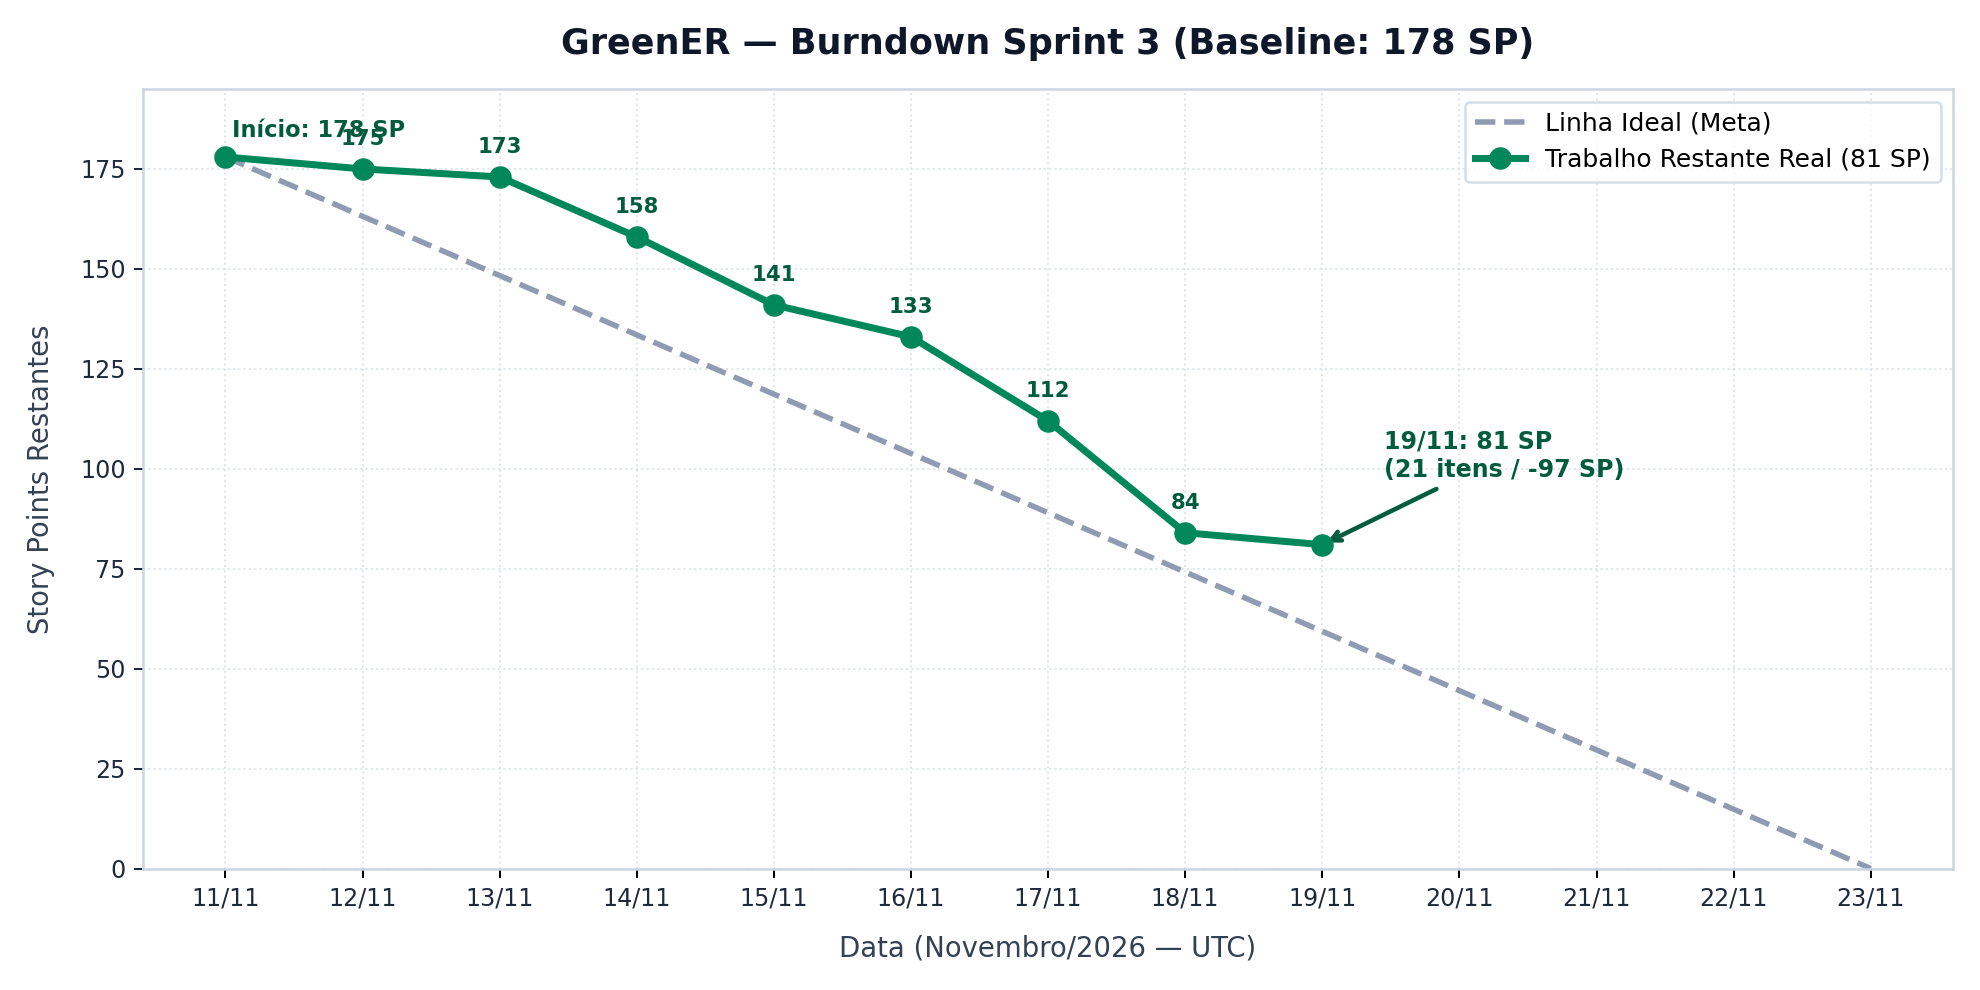
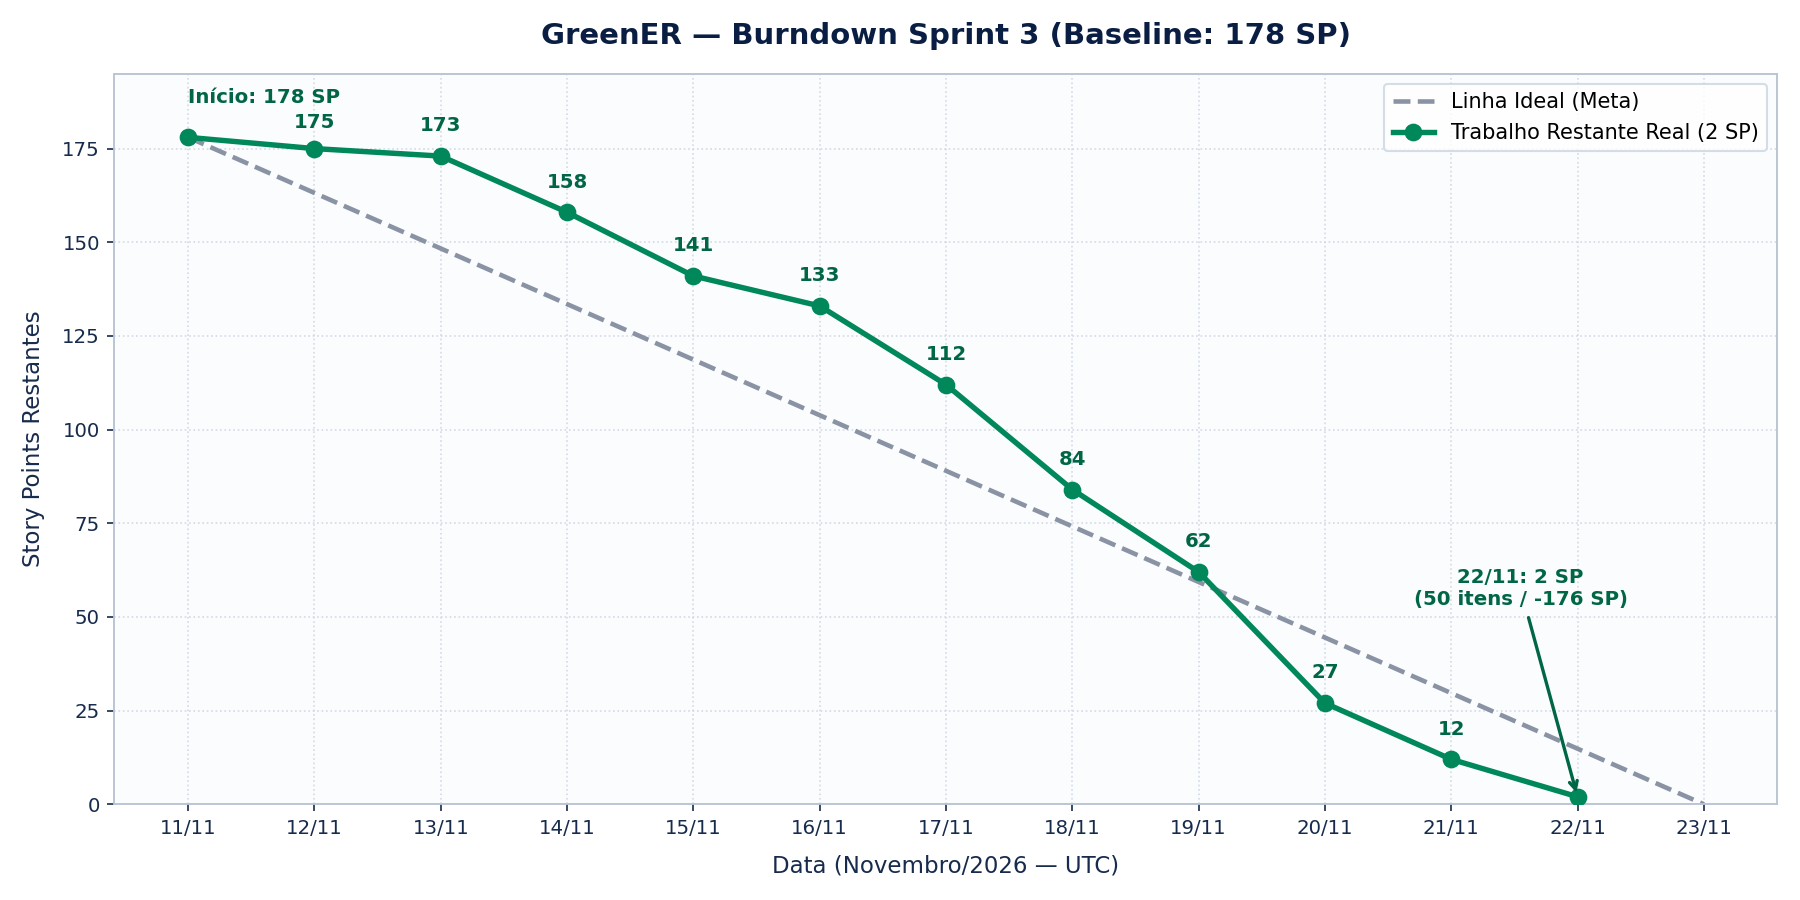
docs(burndown): atualiza burndown da Sprint 3 até 22/11 (2 SP restantes, 50/51 itens) (#108)

diff --git a/docs/burndown-sprint-3.md b/docs/burndown-sprint-3.md
@@ -35,4 +35,13 @@ A baixa de pontos no burndown segue estritamente o critério de **aceite e fecha
 - **16/11/2026:** 133 SP restantes (+2 itens concluídos: [#93](https://github.com/abpundefined/3DSM-ABP-UNDEFINED/issues/93) — 5 SP via PR [#174](https://github.com/abpundefined/3DSM-ABP-UNDEFINED/pull/174); [#98](https://github.com/abpundefined/3DSM-ABP-UNDEFINED/issues/98) — 3 SP via PR [#179](https://github.com/abpundefined/3DSM-ABP-UNDEFINED/pull/179)).
 - **17/11/2026:** 112 SP restantes (+6 itens concluídos: [#110](https://github.com/abpundefined/3DSM-ABP-UNDEFINED/issues/110) — 2 SP via PR [#185](https://github.com/abpundefined/3DSM-ABP-UNDEFINED/pull/185); [#122](https://github.com/abpundefined/3DSM-ABP-UNDEFINED/issues/122) — 2 SP via PR [#187](https://github.com/abpundefined/3DSM-ABP-UNDEFINED/pull/187); [#135](https://github.com/abpundefined/3DSM-ABP-UNDEFINED/issues/135) — 3 SP via PR [#188](https://github.com/abpundefined/3DSM-ABP-UNDEFINED/pull/188); [#115](https://github.com/abpundefined/3DSM-ABP-UNDEFINED/issues/115) — 3 SP via PR [#182](https://github.com/abpundefined/3DSM-ABP-UNDEFINED/pull/182); [#104](https://github.com/abpundefined/3DSM-ABP-UNDEFINED/issues/104) — 5 SP via PR [#183](https://github.com/abpundefined/3DSM-ABP-UNDEFINED/pull/183); [#91](https://github.com/abpundefined/3DSM-ABP-UNDEFINED/issues/91) — 6 SP via PR [#186](https://github.com/abpundefined/3DSM-ABP-UNDEFINED/pull/186)).
 - **18/11/2026:** 84 SP restantes (+4 itens concluídos: [#106](https://github.com/abpundefined/3DSM-ABP-UNDEFINED/issues/106) — 5 SP via PR [#190](https://github.com/abpundefined/3DSM-ABP-UNDEFINED/pull/190); [#99](https://github.com/abpundefined/3DSM-ABP-UNDEFINED/issues/99) — 7 SP via PRs [#173](https://github.com/abpundefined/3DSM-ABP-UNDEFINED/pull/173), [#177](https://github.com/abpundefined/3DSM-ABP-UNDEFINED/pull/177) e [#194](https://github.com/abpundefined/3DSM-ABP-UNDEFINED/pull/194); [#81](https://github.com/abpundefined/3DSM-ABP-UNDEFINED/issues/81) — 8 SP via PRs [#166](https://github.com/abpundefined/3DSM-ABP-UNDEFINED/pull/166), [#167](https://github.com/abpundefined/3DSM-ABP-UNDEFINED/pull/167), [#175](https://github.com/abpundefined/3DSM-ABP-UNDEFINED/pull/175) e [#180](https://github.com/abpundefined/3DSM-ABP-UNDEFINED/pull/180); [#101](https://github.com/abpundefined/3DSM-ABP-UNDEFINED/issues/101) — 8 SP via PRs [#184](https://github.com/abpundefined/3DSM-ABP-UNDEFINED/pull/184), [#193](https://github.com/abpundefined/3DSM-ABP-UNDEFINED/pull/193) e [#198](https://github.com/abpundefined/3DSM-ABP-UNDEFINED/pull/198)).
-- **19/11/2026:** 81 SP restantes (+1 item concluído: [#103](https://github.com/abpundefined/3DSM-ABP-UNDEFINED/issues/103) — 3 SP via PR [#192](https://github.com/abpundefined/3DSM-ABP-UNDEFINED/pull/192)). Acumulado: 21 itens concluídos (97 SP entregues).
+- **19/11/2026:** 62 SP restantes (+7 itens concluídos: [#103](https://github.com/abpundefined/3DSM-ABP-UNDEFINED/issues/103) — 3 SP via PR [#192](https://github.com/abpundefined/3DSM-ABP-UNDEFINED/pull/192); [#123](https://github.com/abpundefined/3DSM-ABP-UNDEFINED/issues/123) — 3 SP via PR [#199](https://github.com/abpundefined/3DSM-ABP-UNDEFINED/pull/199); [#94](https://github.com/abpundefined/3DSM-ABP-UNDEFINED/issues/94) — 6 SP via PR [#200](https://github.com/abpundefined/3DSM-ABP-UNDEFINED/pull/200); [#105](https://github.com/abpundefined/3DSM-ABP-UNDEFINED/issues/105) — 5 SP via PR [#189](https://github.com/abpundefined/3DSM-ABP-UNDEFINED/pull/189); [#129](https://github.com/abpundefined/3DSM-ABP-UNDEFINED/issues/129) — 2 SP via PR [#204](https://github.com/abpundefined/3DSM-ABP-UNDEFINED/pull/204); [#126](https://github.com/abpundefined/3DSM-ABP-UNDEFINED/issues/126) — 2 SP via PR [#203](https://github.com/abpundefined/3DSM-ABP-UNDEFINED/pull/203); [#139](https://github.com/abpundefined/3DSM-ABP-UNDEFINED/issues/139) — 1 SP via PR [#206](https://github.com/abpundefined/3DSM-ABP-UNDEFINED/pull/206)). *(A leitura parcial registrada no fechamento de 18/11 em Brasília contabilizava apenas #103 no início do dia UTC.)*
+- **20/11/2026:** 27 SP restantes (+13 itens concluídos: [#111](https://github.com/abpundefined/3DSM-ABP-UNDEFINED/issues/111) — 4 SP via PR [#205](https://github.com/abpundefined/3DSM-ABP-UNDEFINED/pull/205); [#80](https://github.com/abpundefined/3DSM-ABP-UNDEFINED/issues/80) — 3 SP via PR [#207](https://github.com/abpundefined/3DSM-ABP-UNDEFINED/pull/207); [#116](https://github.com/abpundefined/3DSM-ABP-UNDEFINED/issues/116) — 1 SP via PR [#197](https://github.com/abpundefined/3DSM-ABP-UNDEFINED/pull/197); [#133](https://github.com/abpundefined/3DSM-ABP-UNDEFINED/issues/133) — 3 SP via PR [#202](https://github.com/abpundefined/3DSM-ABP-UNDEFINED/pull/202); [#114](https://github.com/abpundefined/3DSM-ABP-UNDEFINED/issues/114) — 4 SP via PR [#208](https://github.com/abpundefined/3DSM-ABP-UNDEFINED/pull/208); [#140](https://github.com/abpundefined/3DSM-ABP-UNDEFINED/issues/140) — 2 SP via PR [#211](https://github.com/abpundefined/3DSM-ABP-UNDEFINED/pull/211); [#130](https://github.com/abpundefined/3DSM-ABP-UNDEFINED/issues/130) — 3 SP via PR [#212](https://github.com/abpundefined/3DSM-ABP-UNDEFINED/pull/212); [#21](https://github.com/abpundefined/3DSM-ABP-UNDEFINED/issues/21) — 5 SP via PRs [#196](https://github.com/abpundefined/3DSM-ABP-UNDEFINED/pull/196) e [#210](https://github.com/abpundefined/3DSM-ABP-UNDEFINED/pull/210); [#131](https://github.com/abpundefined/3DSM-ABP-UNDEFINED/issues/131) — 1 SP via PR [#215](https://github.com/abpundefined/3DSM-ABP-UNDEFINED/pull/215); [#124](https://github.com/abpundefined/3DSM-ABP-UNDEFINED/issues/124) — 3 SP via PR [#213](https://github.com/abpundefined/3DSM-ABP-UNDEFINED/pull/213); [#141](https://github.com/abpundefined/3DSM-ABP-UNDEFINED/issues/141) — 2 SP via PR [#217](https://github.com/abpundefined/3DSM-ABP-UNDEFINED/pull/217); [#146](https://github.com/abpundefined/3DSM-ABP-UNDEFINED/issues/146) — 1 SP via PR [#216](https://github.com/abpundefined/3DSM-ABP-UNDEFINED/pull/216); [#127](https://github.com/abpundefined/3DSM-ABP-UNDEFINED/issues/127) — 3 SP via PR [#218](https://github.com/abpundefined/3DSM-ABP-UNDEFINED/pull/218)).
+- **21/11/2026:** 12 SP restantes (+6 itens concluídos: [#136](https://github.com/abpundefined/3DSM-ABP-UNDEFINED/issues/136) — 2 SP via PR [#219](https://github.com/abpundefined/3DSM-ABP-UNDEFINED/pull/219); [#143](https://github.com/abpundefined/3DSM-ABP-UNDEFINED/issues/143) — 1 SP via PR [#220](https://github.com/abpundefined/3DSM-ABP-UNDEFINED/pull/220); [#125](https://github.com/abpundefined/3DSM-ABP-UNDEFINED/issues/125) — 3 SP via PR [#222](https://github.com/abpundefined/3DSM-ABP-UNDEFINED/pull/222); [#145](https://github.com/abpundefined/3DSM-ABP-UNDEFINED/issues/145) — 2 SP via PR [#229](https://github.com/abpundefined/3DSM-ABP-UNDEFINED/pull/229); [#119](https://github.com/abpundefined/3DSM-ABP-UNDEFINED/issues/119) — 5 SP via PR [#230](https://github.com/abpundefined/3DSM-ABP-UNDEFINED/pull/230); [#142](https://github.com/abpundefined/3DSM-ABP-UNDEFINED/issues/142) — 2 SP via PR [#235](https://github.com/abpundefined/3DSM-ABP-UNDEFINED/pull/235)).
+- **22/11/2026:** 2 SP restantes (+4 itens concluídos: [#117](https://github.com/abpundefined/3DSM-ABP-UNDEFINED/issues/117) — 2 SP via PR [#201](https://github.com/abpundefined/3DSM-ABP-UNDEFINED/pull/201); [#120](https://github.com/abpundefined/3DSM-ABP-UNDEFINED/issues/120) — 3 SP via PR [#221](https://github.com/abpundefined/3DSM-ABP-UNDEFINED/pull/221); [#118](https://github.com/abpundefined/3DSM-ABP-UNDEFINED/issues/118) — 2 SP via PR [#223](https://github.com/abpundefined/3DSM-ABP-UNDEFINED/pull/223); [#109](https://github.com/abpundefined/3DSM-ABP-UNDEFINED/issues/109) — 3 SP). **Acumulado:** 50 de 51 itens concluídos (176 de 178 SP entregues — 98,88%), restando apenas [#108](https://github.com/abpundefined/3DSM-ABP-UNDEFINED/issues/108) (2 SP), que será encerrada com o merge deste PR.
+
+### Entregas do Backlog de Reserva (`could` — fora da baseline de 178 SP)
+Além dos itens comprometidos, **7 dos 10 itens de reserva (+20 SP)** foram implementados e fechados após a conclusão da frente principal:
+- **20/11/2026:** [#149](https://github.com/abpundefined/3DSM-ABP-UNDEFINED/issues/149) (2 SP, PR [#209](https://github.com/abpundefined/3DSM-ABP-UNDEFINED/pull/209)).
+- **21/11/2026:** [#155](https://github.com/abpundefined/3DSM-ABP-UNDEFINED/issues/155) (5 SP, PR [#224](https://github.com/abpundefined/3DSM-ABP-UNDEFINED/pull/224)), [#153](https://github.com/abpundefined/3DSM-ABP-UNDEFINED/issues/153) (2 SP, PR [#225](https://github.com/abpundefined/3DSM-ABP-UNDEFINED/pull/225)), [#154](https://github.com/abpundefined/3DSM-ABP-UNDEFINED/issues/154) (3 SP, PR [#227](https://github.com/abpundefined/3DSM-ABP-UNDEFINED/pull/227)), [#150](https://github.com/abpundefined/3DSM-ABP-UNDEFINED/issues/150) (1 SP, PR [#228](https://github.com/abpundefined/3DSM-ABP-UNDEFINED/pull/228)), [#147](https://github.com/abpundefined/3DSM-ABP-UNDEFINED/issues/147) (5 SP, PR [#231](https://github.com/abpundefined/3DSM-ABP-UNDEFINED/pull/231)), [#151](https://github.com/abpundefined/3DSM-ABP-UNDEFINED/issues/151) (2 SP, PR [#236](https://github.com/abpundefined/3DSM-ABP-UNDEFINED/pull/236)).
+- Os demais 3 itens opcionais ([#107](https://github.com/abpundefined/3DSM-ABP-UNDEFINED/issues/107) — 2 SP, [#148](https://github.com/abpundefined/3DSM-ABP-UNDEFINED/issues/148) — 5 SP e [#152](https://github.com/abpundefined/3DSM-ABP-UNDEFINED/issues/152) — 2 SP) foram encerrados em 21/11 como não planejados (`NOT_PLANNED`).
